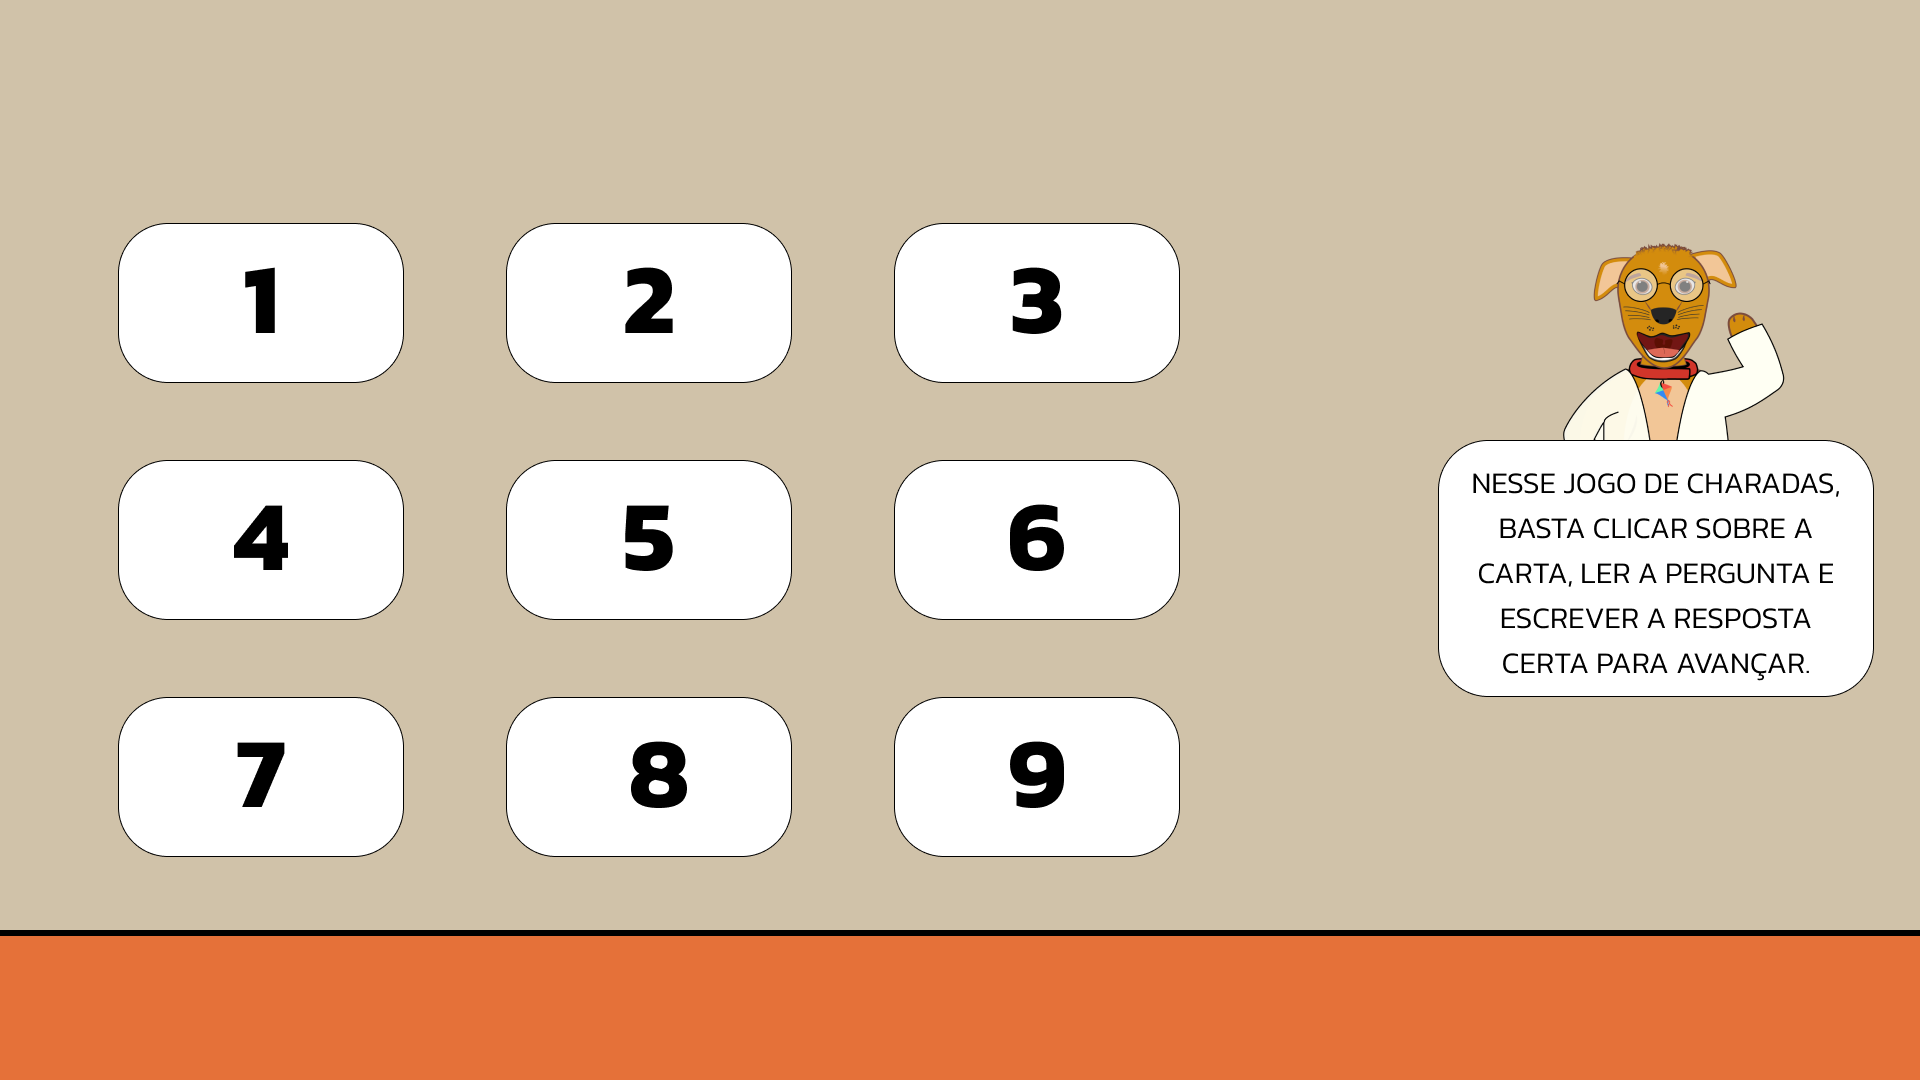
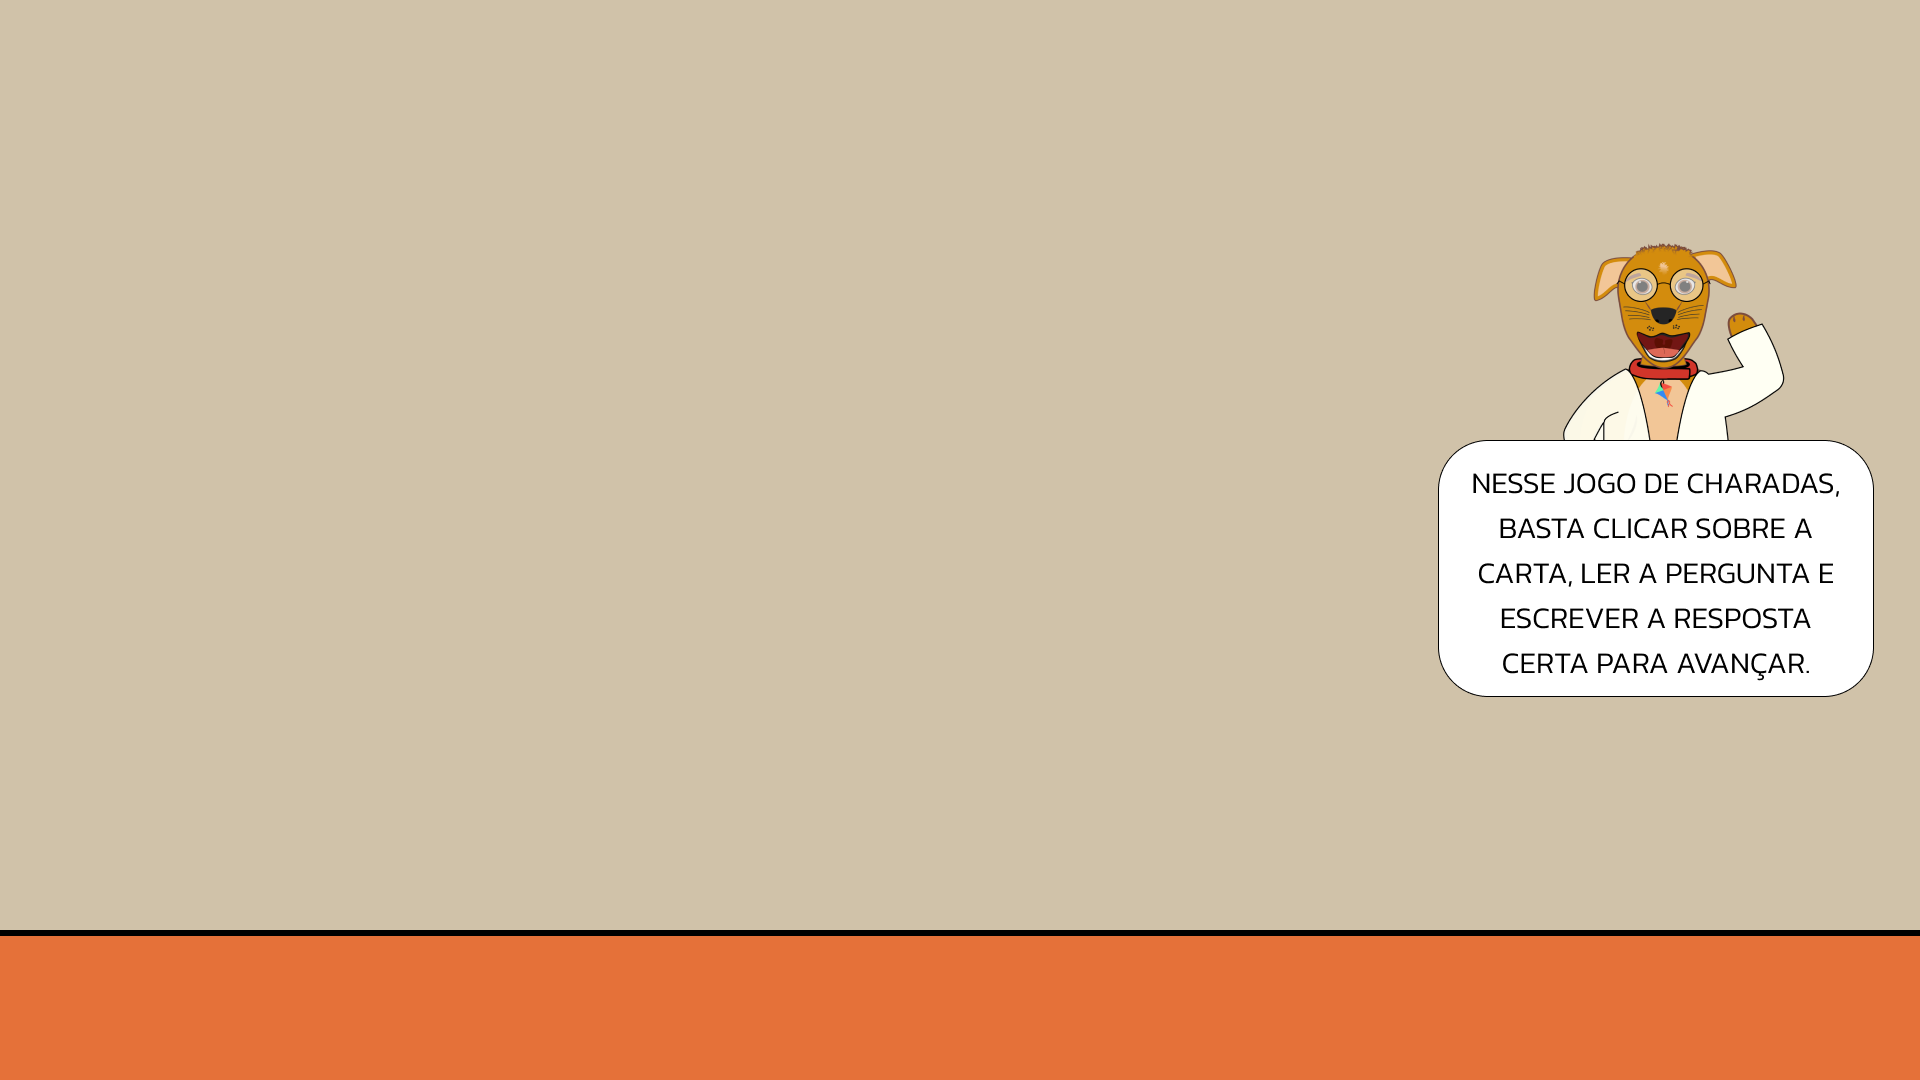
fix: correcao do menu de charadas

diff --git a/src/pages/Capitulo2/Pag2_13.jsx b/src/pages/Capitulo2/Pag2_13.jsx
@@ -8,15 +8,54 @@ const TelaCenario = styled.div`
   height: 100vh;
   width: 100vw;
   background-image: url(${pag13});
-  background-size: 100% 100%;
+  background-size: cover;
   background-position: center;
   position: relative;
+  overflow: hidden;
+  display: flex;
+  justify-content: center;
+  align-items: center;
 `;
 
 const BotaoContainer = styled.div`
   position: absolute;
   bottom: 20px;
   right: 20px;
+`;
+
+const CharadaGrid = styled.div`
+  position: absolute;
+  top: 50%;
+  left: 30%;
+  transform: translate(-50%, -50%);
+
+  display: grid;
+  grid-template-columns: repeat(3, 1fr);
+  gap: 40px;
+
+  width: 550px;
+  max-width: 100%;
+  padding-bottom: 50px;
+`;
+
+const CharadaBotao = styled.button`
+  width: 100%;
+  aspect-ratio: 1 / 1;
+
+  background-color: white;
+  color: black;
+  border: 2px solid black;
+  border-radius: 35px;
+
+  font-size: 46px;
+  font-weight: 700;
+  cursor: pointer;
+
+  transition: background-color 0.2s;
+
+  &:hover {
+    background-color: #f0f0f0;
+  }
 `;
 
 const C2_Tela_13 = () => {
@@ -26,8 +65,23 @@ const C2_Tela_13 = () => {
     navigate("/capitulo2/tela-23");
   };
 
+  const handleCharadaClick = (numeroBotao) => {
+    const numeroTela = 13 + numeroBotao;
+    navigate(`/capitulo2/tela-${numeroTela}`);
+  };
+
+  const charadas = Array.from({ length: 9 }, (_, i) => i + 1);
+
   return (
     <TelaCenario>
+      <CharadaGrid>
+        {charadas.map((numero) => (
+          <CharadaBotao key={numero} onClick={() => handleCharadaClick(numero)}>
+            {numero}
+          </CharadaBotao>
+        ))}
+      </CharadaGrid>
+
       <BotaoContainer>
         <Button onClick={handleAdvance} type='avancar'>
           AVANÇAR
